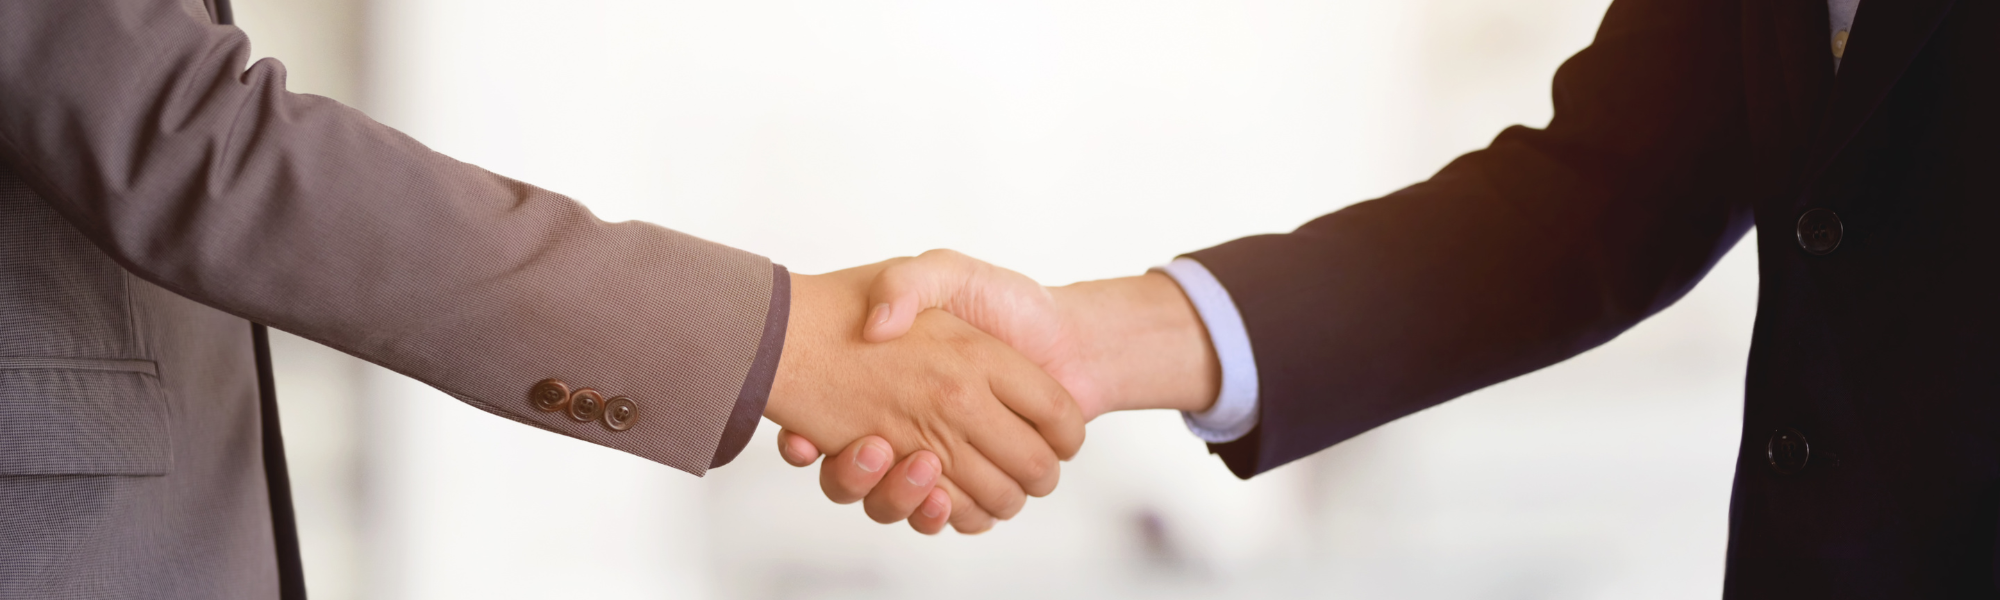
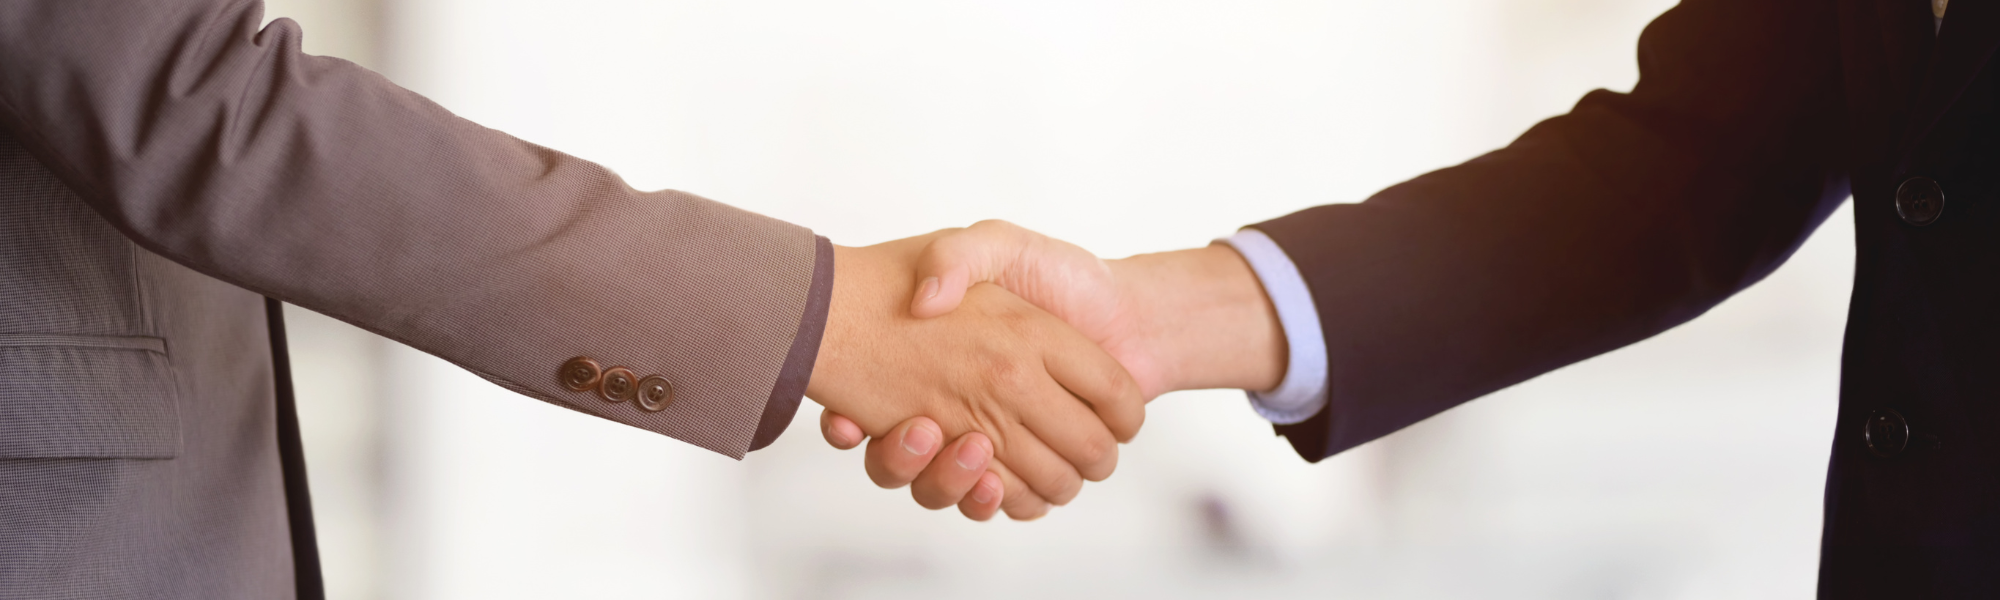
Update main

diff --git a/src/main/main-css.css b/src/main/main-css.css
@@ -4,23 +4,24 @@ Main styles
 
 .home-page-background-image {
     align-items: center;
-    background-image: linear-gradient(to bottom, whitesmoke 0%, rgba(245, 245, 245, 0.5) 5%, transparent 10%), url("Handshake_3.png");
-    background-position: center 150px;
+    background-image: url("Handshake_3.png");
+    background-position: center 96px;
     background-repeat: no-repeat;
     background-size: auto;
     display: flex;
     justify-content: center;
     min-height: 750px; /* Must have a value or else image will not appear */
-    padding: 150px 0 0 0;
-    width: 100%;
+    padding: 96px 0 0 0;
+    max-width: 2000px;
 }
 
 .home-page-background-image hgroup h2 {
     align-items: center;
     color: var(--dark-text-color);
-    font-family: "Agdasima", Tahoma;
+    font-family: "Barlow Condensed", Tahoma;
     font-size: 4rem;
-    letter-spacing: 1px;
+    font-weight: normal;
+    letter-spacing: -1px;
     text-align: center;
     text-transform: uppercase;
 }
@@ -29,18 +30,27 @@ Main styles
     align-items: center;
     color: var(--dark-text-color);
     display: flex;
-    font-family: "Agdasima", Tahoma;
+    font-family: "Barlow Condensed", Tahoma;
     font-size: 6rem;
-    font-weight: bold;
     justify-content: center;
 }
 
-@media screen and (max-width: 750px) {
+@media screen and (max-width: 700px) {
     .home-page-background-image hgroup h2 {
         font-size: 3rem;
     }
 
     .home-page-background-image hgroup p {
         font-size: 5rem;
+    }
+}
+
+@media screen and (max-width: 470px) {
+    .home-page-background-image hgroup h2 {
+        font-size: 2rem;
+    }
+
+    .home-page-background-image hgroup p {
+        font-size: 3rem;
     }
 }

diff --git a/src/index.php b/src/index.php
@@ -19,7 +19,7 @@ if (isset($_SERVER['HTTP_X_FORWARDED_URL']) && strpos($_SERVER['HTTP_X_FORWARDED
     <!-- Link to Google Fonts -->
     <link rel="preconnect" href="https://fonts.googleapis.com">
     <link rel="preconnect" href="https://fonts.gstatic.com" crossorigin>
-    <link href="https://fonts.googleapis.com/css2?family=Agdasima:wght@400;700&family=Varela+Round&family=Zen+Dots&display=swap" rel="stylesheet">
+    <link href="https://fonts.googleapis.com/css2?family=Barlow+Condensed:ital,wght@0,100;0,200;0,300;0,400;0,500;0,600;0,700;0,800;0,900;1,100;1,200;1,300;1,400;1,500;1,600;1,700;1,800;1,900&family=Varela+Round&family=Zen+Dots&display=swap" rel="stylesheet">
     <!-- Link to Font Awesome -->
     <script src="https://kit.fontawesome.com/619bfd8718.js" crossorigin="anonymous"></script>
   </head>

diff --git a/src/footer/footer-html.php b/src/footer/footer-html.php
@@ -11,7 +11,7 @@
         <!-- Link to Google Fonts -->
         <link rel="preconnect" href="https://fonts.googleapis.com">
         <link rel="preconnect" href="https://fonts.gstatic.com" crossorigin>
-        <link href="https://fonts.googleapis.com/css2?family=Agdasima:wght@400;700&family=Varela+Round&family=Zen+Dots&display=swap" rel="stylesheet">
+        <link href="https://fonts.googleapis.com/css2?family=Barlow+Condensed:ital,wght@0,100;0,200;0,300;0,400;0,500;0,600;0,700;0,800;0,900;1,100;1,200;1,300;1,400;1,500;1,600;1,700;1,800;1,900&family=Varela+Round&family=Zen+Dots&display=swap" rel="stylesheet">
         <!-- Link to Font Awesome -->
         <script src="https://kit.fontawesome.com/619bfd8718.js" crossorigin="anonymous"></script>
     </head>

diff --git a/src/header/header-html.php b/src/header/header-html.php
@@ -11,7 +11,7 @@
         <!-- Link to Google Fonts -->
         <link rel="preconnect" href="https://fonts.googleapis.com">
         <link rel="preconnect" href="https://fonts.gstatic.com" crossorigin>
-        <link href="https://fonts.googleapis.com/css2?family=Agdasima:wght@400;700&family=Varela+Round&family=Zen+Dots&display=swap" rel="stylesheet">
+        <link href="https://fonts.googleapis.com/css2?family=Barlow+Condensed:ital,wght@0,100;0,200;0,300;0,400;0,500;0,600;0,700;0,800;0,900;1,100;1,200;1,300;1,400;1,500;1,600;1,700;1,800;1,900&family=Varela+Round&family=Zen+Dots&display=swap" rel="stylesheet">
         <!-- Link to Font Awesome -->
         <script src="https://kit.fontawesome.com/619bfd8718.js" crossorigin="anonymous"></script>
     </head>

diff --git a/src/main/main-html.php b/src/main/main-html.php
@@ -11,7 +11,7 @@
         <!-- Link to Google Fonts -->
         <link rel="preconnect" href="https://fonts.googleapis.com">
         <link rel="preconnect" href="https://fonts.gstatic.com" crossorigin>
-        <link href="https://fonts.googleapis.com/css2?family=Agdasima:wght@400;700&family=Varela+Round&family=Zen+Dots&display=swap" rel="stylesheet">
+        <link href="https://fonts.googleapis.com/css2?family=Barlow+Condensed:ital,wght@0,100;0,200;0,300;0,400;0,500;0,600;0,700;0,800;0,900;1,100;1,200;1,300;1,400;1,500;1,600;1,700;1,800;1,900&family=Varela+Round&family=Zen+Dots&display=swap" rel="stylesheet">
         <!-- Link to Font Awesome -->
         <script src="https://kit.fontawesome.com/619bfd8718.js" crossorigin="anonymous"></script>
     </head>
